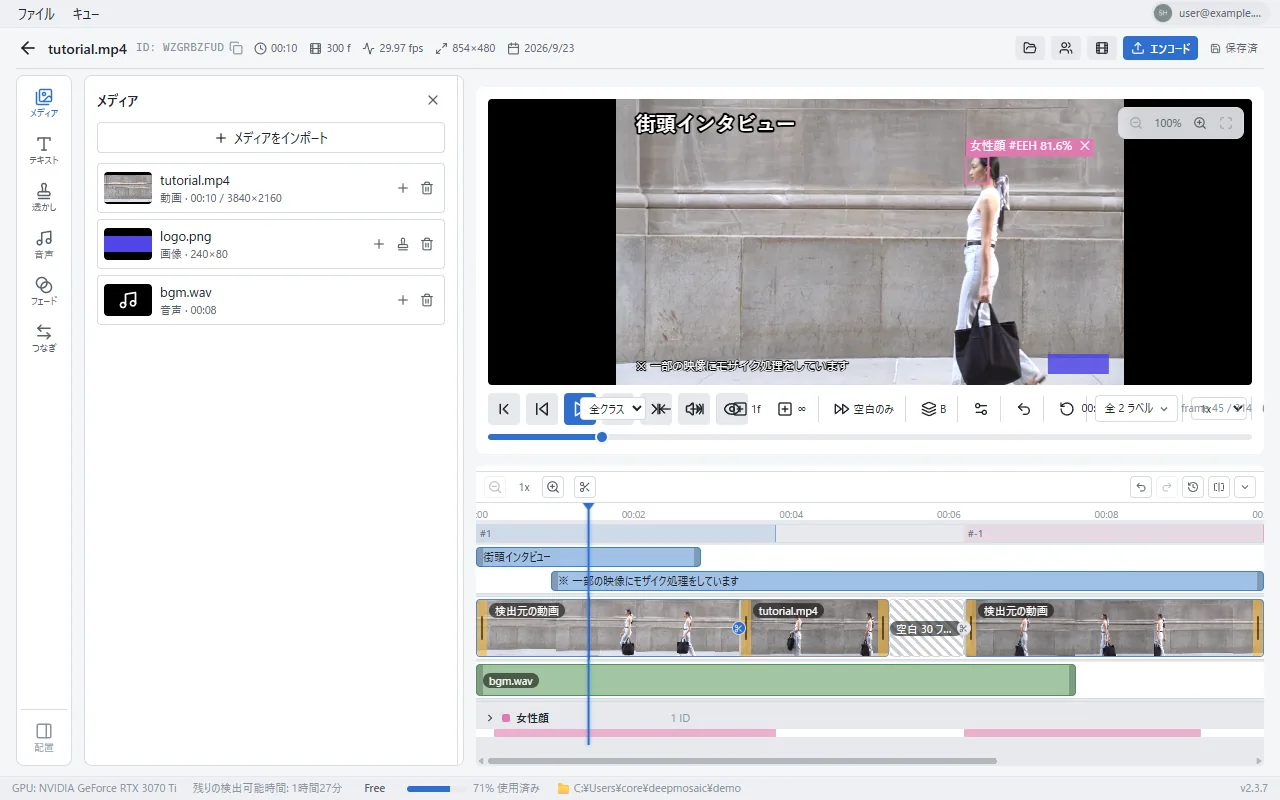
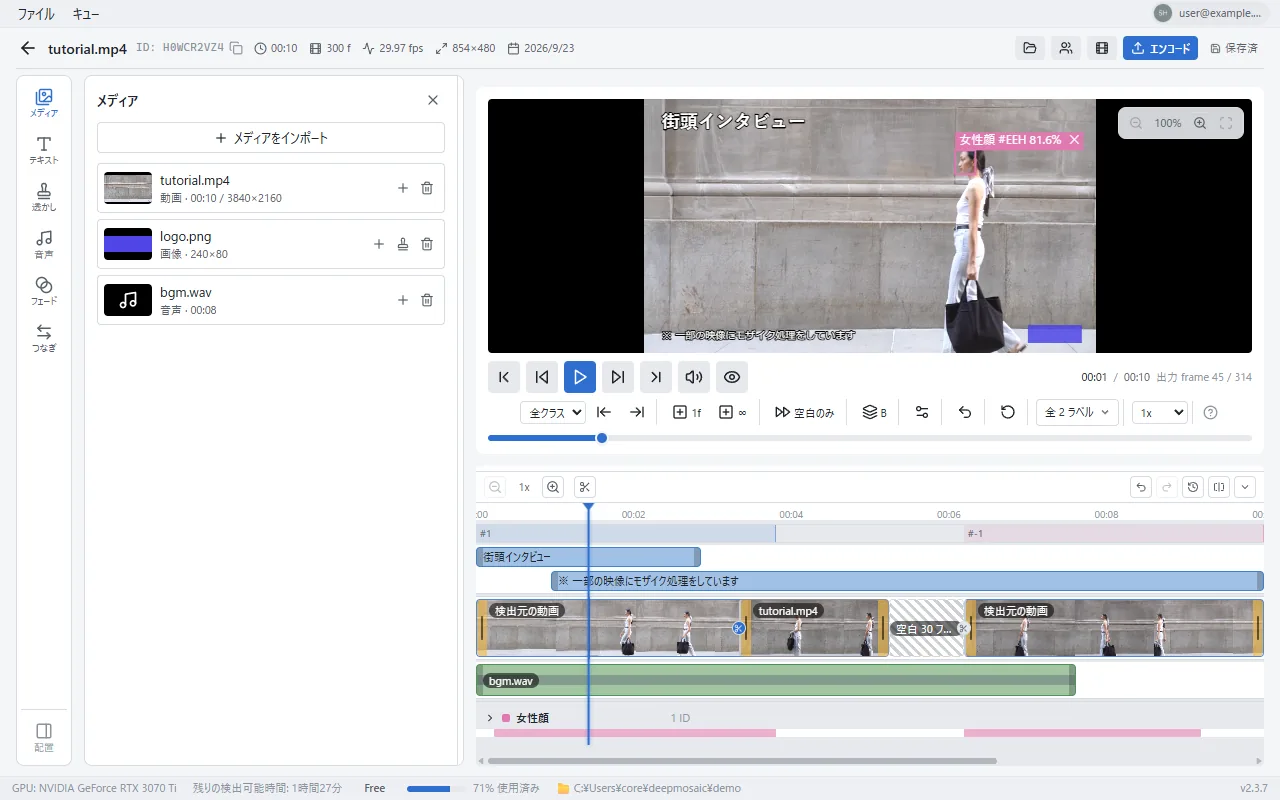
docs: T-523 T-519 / T-520 の修正後に docs のスクリーンショット 7 枚を撮り直して差し替える (edit-audio / edit-sidebar-media / edit-text / edit-watermark / edit-fade / edit-transition / edit-timeline-clips。音声レーンの帯に波形が写り、ドロワーを開いた 6 枚でプレイヤーの操作列が重ならない。寸法 1280×800 は不変で --fix-dims の書き換えなし、公開は T-514)

Changed region(s): [[0.375, 0.125, 1.0, 0.5625], [0.4062, 0.8438, 0.8438, 0.875], [0.125, 0.0312, 0.1562, 0.0625]]

diff --git a/docs_draft/notes_T-523.md b/docs_draft/notes_T-523.md
@@ -1,0 +1,50 @@
+# T-523 T-519 / T-520 の修正後に docs のスクリーンショット 7 枚を差し替える (site 側)
+
+公開 (push) はリーダーの T-514。撮影と撮影ハーネスの検査は desktop の `docs_draft/notes_T-523.md`。
+
+## 変更点
+
+- `assets/img/screenshots/` の 7 枚を撮り直しで差し替え (ファイル名・寸法 1280×800 は不変):
+  `edit-audio` / `edit-sidebar-media` / `edit-text` / `edit-watermark` / `edit-fade` / `edit-transition` /
+  `edit-timeline-clips` (.webp)。
+  - 波形: T-496 の画像は音声レーンの BGM の帯が平坦 (desktop で波形が描かれない T-519)。差し替え後は帯の中央に波形が写り、
+    `04-edit.html` の alt「音声レーンの帯に波形が描かれている状態」/ figcaption「音声パネルと音声レーンの波形」と一致する
+  - 操作列: ドロワーを開いた 6 枚でプレイヤーの操作列が重なっていた (T-520)。差し替え後は 2 段 (1 段目 再生ボタン + 時刻 /
+    2 段目 ツールバー) で重なりなし。edit-timeline-clips (ドロワー閉) は 1 段
+- `check-docs --fix-dims` の書き換えは無し (7 枚とも実寸 1280×800 = 既存の width / height と一致)。index.html はこの 7 枚を使わない
+
+## 追加・変更したコマンド
+
+新規コマンドは無し。実行した手順 (T-522 に従いリポのルートでは `--apply` しない):
+
+```bash
+# desktop で撮影 (desktop の notes 参照) → PNG 7 枚だけを scratchpad の作業フォルダ (リポ外) にコピー
+node scripts/optimize-images.mjs <作業フォルダ>            # [DRY] 7 枚 / 保護 0 枚を確認
+node scripts/optimize-images.mjs <作業フォルダ> --apply    # PNG 2406 KB → WebP 385 KB
+cp <作業フォルダ>/*.webp assets/img/screenshots/
+node scripts/check-docs.mjs --fix-dims                    # all <img> width/height already match
+npm test && npm run build && bundle exec jekyll build --strict_front_matter && node scripts/check-docs.mjs
+```
+
+ゲート (2026-09-23): `npm test` 286 件 (pass 285 / skip 1 = plan_catalog のライブ検査で既存) / `npm run build` 成功 /
+`bundle exec jekyll build --strict_front_matter` 成功 / `node scripts/check-docs.mjs` OK (2 ページ、15 ファイルの深いリンク)。
+
+## 確認方法と結果
+
+- 撮影ハーネス (desktop) が撮る直前と撮った PNG で検査済み: PNG の帯の中で波形の画素がある列 526/526 (ドロワー 6 枚)、
+  825/825 (edit-timeline-clips)。撮り直し前の PNG は同じ検査で 5/526 (陽性対照)。操作列は 6 枚とも 2 段・重なり 0 件
+- WebP は復号して目視 (edit-sidebar-media / edit-audio): 帯の波形と 2 段の操作列が見える。画素の検査は変換前の
+  PNG 7 枚で行った (WebP は色のにじみで地の色がずれ、画素検査の判定が不安定なため WebP は目視で確認)
+- 新しい WebP (sha256 の先頭 16 桁 / バイト数): edit-audio 698e75540bab2cfb 53370 / edit-sidebar-media bf9692fdf15ee22a 54058 /
+  edit-text af52c91a346bd79c 64690 / edit-watermark 639e77914f81f2c5 54622 / edit-fade 3d18394f744a54cf 55286 /
+  edit-transition 210b2b65f59a2405 57998 / edit-timeline-clips 8a0e56076ece3b79 54672
+
+## 注意点・既知の制約
+
+- 公開は T-514 (リーダー)。このリポの push は即公開なので、本チケットでは push していない
+- 画像の中の動画 ID 表示は撮影ごとに変わる (検出のたびに採番) — 本文は ID に触れていないので影響なし
+- edit-timeline-clips はドロワーを閉じた幅で操作列がコンパクト (アイコンのみ) になる (T-520 の仕様)。本文はツールバーの文言に触れていない
+
+## ロールバック
+
+7 枚の WebP を 1 つ前のコミット (T-522 fa66cad 時点 = T-496 の画像) に戻せばよい。寸法は不変なので HTML の変更は不要。
